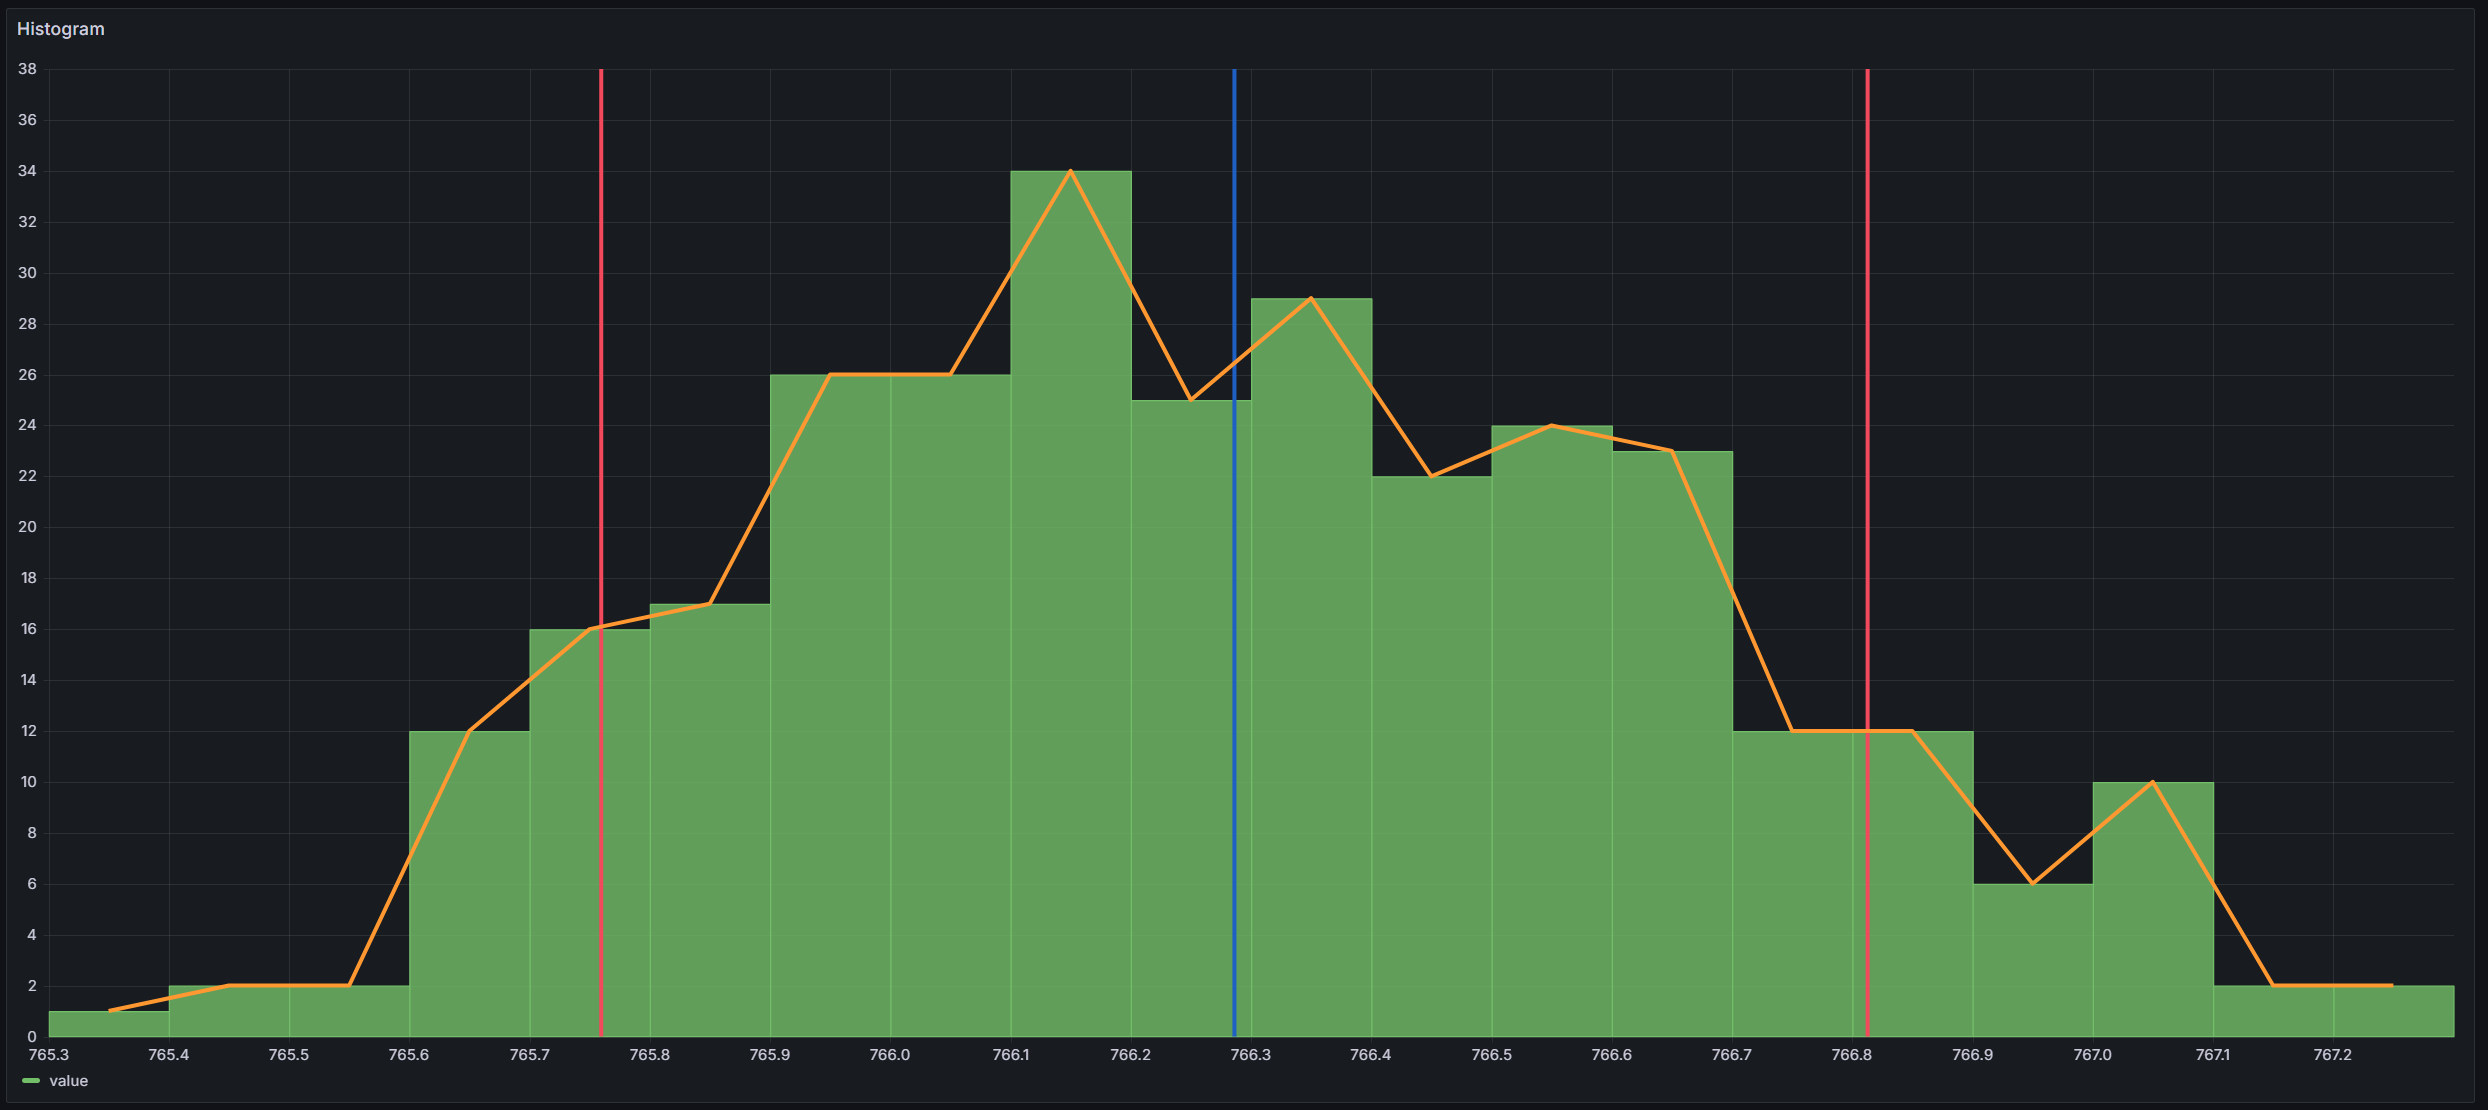
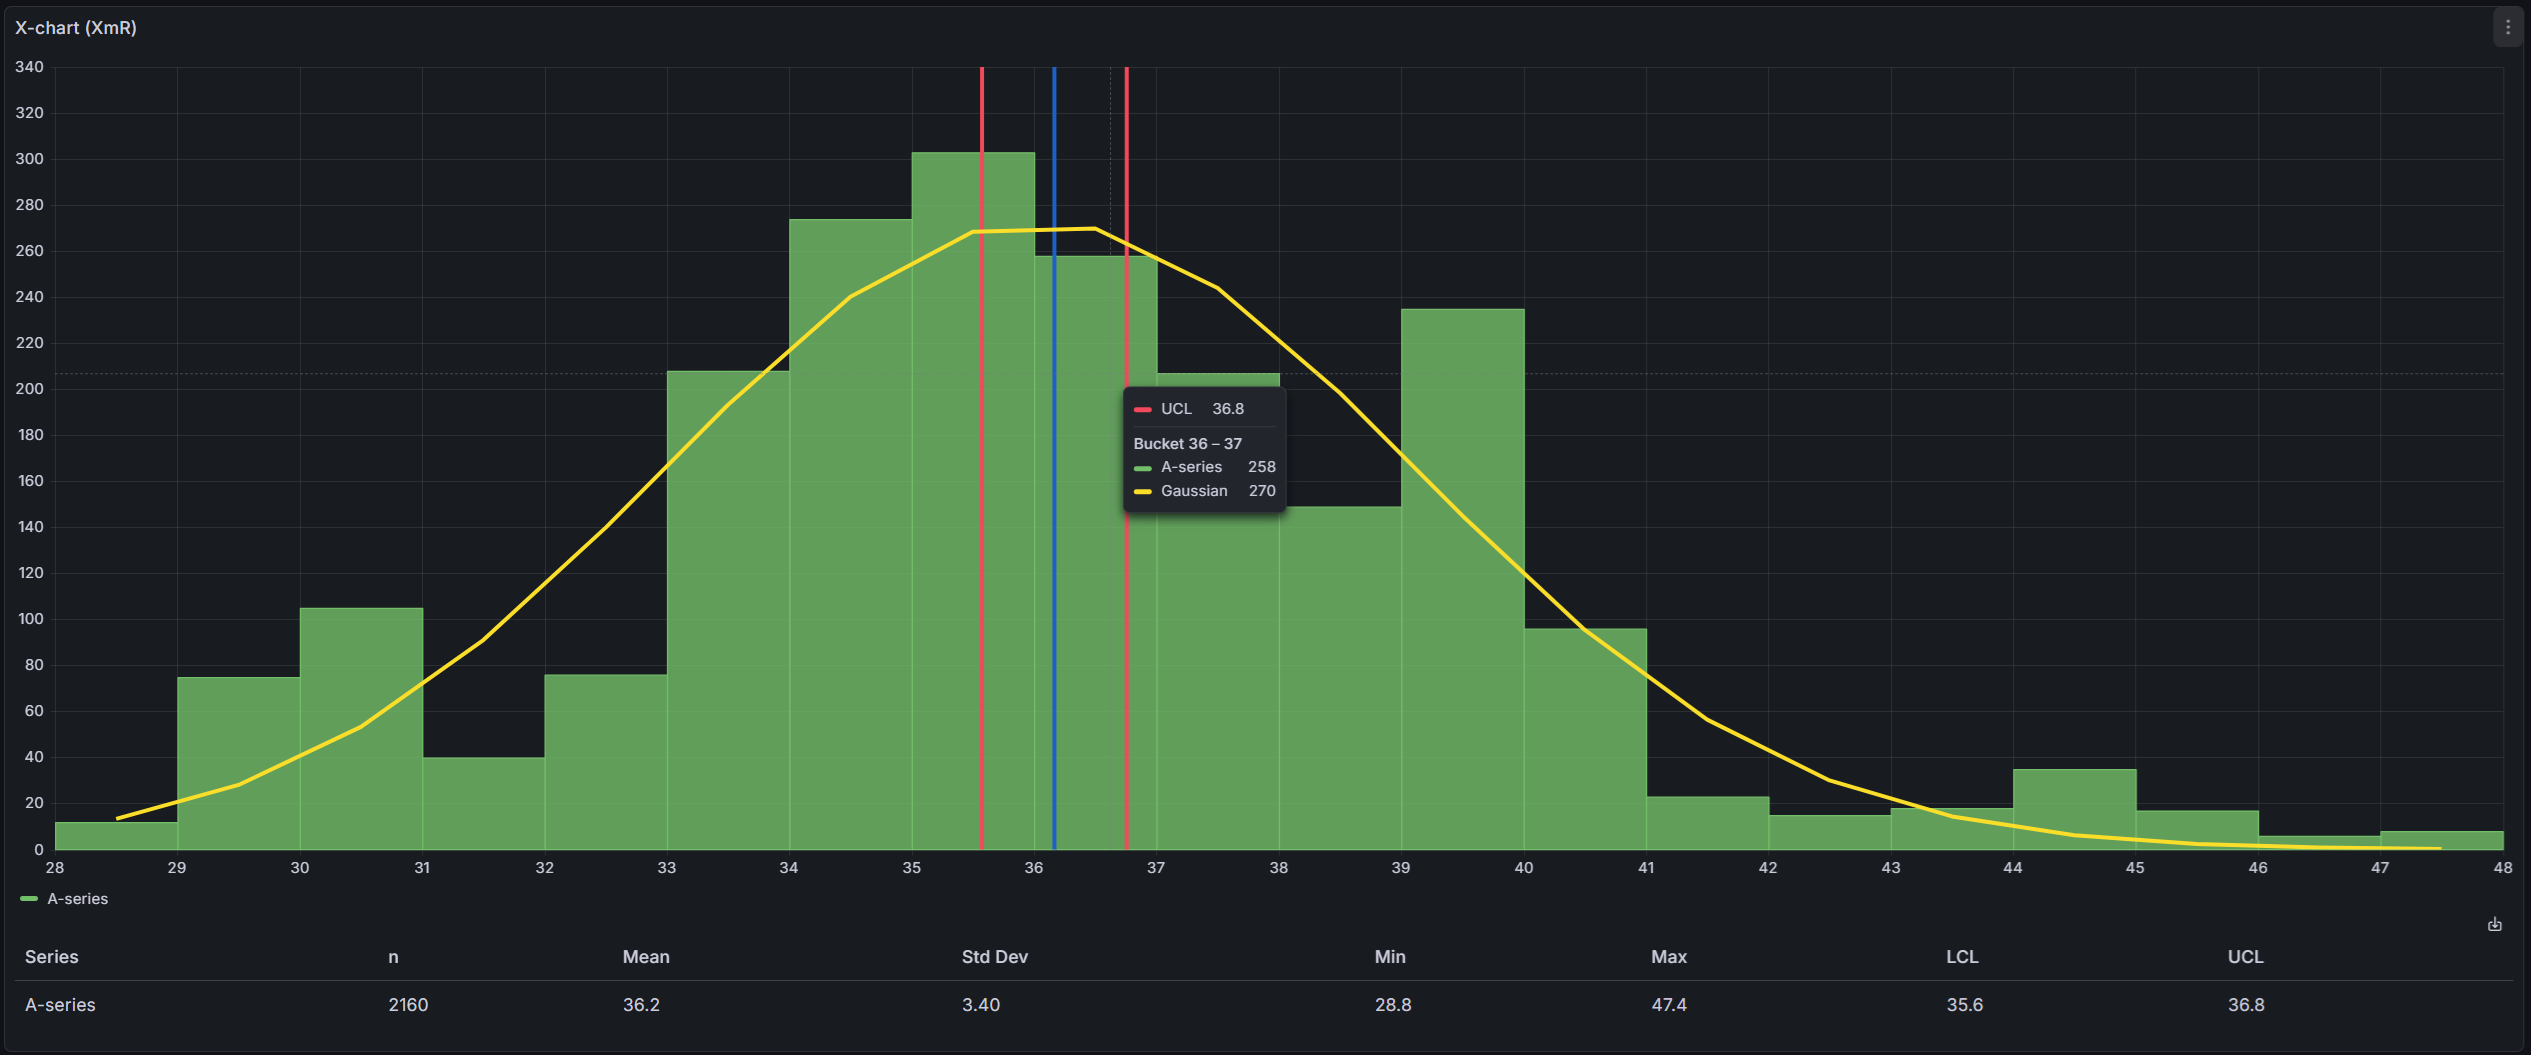
table chart splitter

diff --git a/src/components/SpcHistogramPanel.tsx b/src/components/SpcHistogramPanel.tsx
@@ -1,7 +1,7 @@
-import React, { useCallback, useMemo, useState } from 'react';
+import React, { useCallback, useEffect, useMemo, useState } from 'react';
 import { buildHistogram, FieldType, getHistogramFields } from '@grafana/data';
 import { histogramFieldsToFrame } from '../data/transform';
-import { ContextMenu, MenuItem, useTheme2 } from '@grafana/ui';
+import { ContextMenu, MenuItem, useSplitter, useTheme2 } from '@grafana/ui';
 import { Histogram, getBucketSize } from './Histogram/Histogram';
 import { LimitAnnotations } from './LimitAnnotations/LimitAnnotations';
 import { doSpcCalcs } from 'data/doSpcCalcs';
@@ -172,6 +172,31 @@ export const SpcHistogramPanel = ({ data, options, width, height }: ChartPanelPr
     downloadCsv(csv, generateExportFilename());
   }, [samples, optionsWithVars, allSamplesWithGaussianCalcs, histogram]);
 
+  const showTable = optionsWithVars.showStatisticsTable !== false;
+
+  const [histogramHeight, setHistogramHeight] = useState(Math.round(height * 0.75));
+
+  const { containerProps, primaryProps, secondaryProps, splitterProps } = useSplitter({
+    direction: 'column',
+    initialSize: 0.75,
+  });
+
+  // Track the actual pixel height of the primary pane via ResizeObserver
+  // so the histogram size is correct on initial render (not just after drag).
+  useEffect(() => {
+    const el = primaryProps.ref.current;
+    if (!el) {
+      return;
+    }
+    const ro = new ResizeObserver((entries) => {
+      for (const entry of entries) {
+        setHistogramHeight(Math.round(entry.contentRect.height));
+      }
+    });
+    ro.observe(el);
+    return () => ro.disconnect();
+  }, [primaryProps.ref]);
+
   const [contextMenu, setContextMenu] = useState<{ x: number; y: number } | null>(null);
 
   const handleContextMenu = useCallback(
@@ -190,48 +215,78 @@ export const SpcHistogramPanel = ({ data, options, width, height }: ChartPanelPr
     );
   }
 
-  const showTable = optionsWithVars.showStatisticsTable !== false;
-  const tableHeight = showTable ? 100 : 0;
-  const histogramHeight = height - tableHeight;
+  if (!showTable) {
+    return (
+      <div style={{ display: 'flex', flexDirection: 'column', height }} onContextMenu={handleContextMenu}>
+        {contextMenu && (
+          <ContextMenu
+            x={contextMenu.x}
+            y={contextMenu.y}
+            onClose={() => setContextMenu(null)}
+            renderMenuItems={() => (
+              <MenuItem label="Download CSV" icon="download-alt" onClick={handleExport} />
+            )}
+          />
+        )}
+        <Histogram
+          options={optionsWithVars}
+          theme={theme}
+          legend={optionsWithVars.legend}
+          rawSeries={stampedSamples}
+          structureRev={data.structureRev}
+          width={width}
+          height={height}
+          alignedFrame={histogram}
+          bucketSize={bucketSize}
+          annotationsRange={annotationsRange}
+        >
+          {renderAnnotations}
+        </Histogram>
+      </div>
+    );
+  }
 
   return (
-    <div style={{ display: 'flex', flexDirection: 'column', height }} onContextMenu={handleContextMenu}>
+    <div
+      {...containerProps}
+      style={{ height, width }}
+      onContextMenu={handleContextMenu}
+    >
       {contextMenu && (
         <ContextMenu
           x={contextMenu.x}
           y={contextMenu.y}
           onClose={() => setContextMenu(null)}
           renderMenuItems={() => (
-            <MenuItem
-              label="Download CSV"
-              icon="download-alt"
-              onClick={handleExport}
-            />
+            <MenuItem label="Download CSV" icon="download-alt" onClick={handleExport} />
           )}
         />
       )}
-      <Histogram
-        options={optionsWithVars}
-        theme={theme}
-        legend={optionsWithVars.legend}
-        rawSeries={stampedSamples}
-        structureRev={data.structureRev}
-        width={width}
-        height={histogramHeight}
-        alignedFrame={histogram}
-        bucketSize={bucketSize}
-        annotationsRange={annotationsRange}
-      >
-        {renderAnnotations}
-      </Histogram>
-      {showTable && (
+      <div {...primaryProps} style={{ ...primaryProps.style, overflow: 'hidden', minHeight: 0 }}>
+        <Histogram
+          options={optionsWithVars}
+          theme={theme}
+          legend={optionsWithVars.legend}
+          rawSeries={stampedSamples}
+          structureRev={data.structureRev}
+          width={width}
+          height={histogramHeight}
+          alignedFrame={histogram}
+          bucketSize={bucketSize}
+          annotationsRange={annotationsRange}
+        >
+          {renderAnnotations}
+        </Histogram>
+      </div>
+      <div {...splitterProps} />
+      <div {...secondaryProps} style={{ ...secondaryProps.style, overflow: 'auto', display: 'flex', justifyContent: 'center', minHeight: 0 }}>
         <StatisticsTable
           series={samples}
           options={optionsWithVars}
           theme={theme}
           onExport={handleExport}
         />
-      )}
+      </div>
     </div>
   );
 };

diff --git a/src/components/StatisticsTable/StatisticsTable.tsx b/src/components/StatisticsTable/StatisticsTable.tsx
@@ -1,4 +1,4 @@
-import React, { useMemo } from 'react';
+import React, { useCallback, useMemo } from 'react';
 import { DataFrame, FieldType, getDisplayProcessor, formattedValueToString, GrafanaTheme2 } from '@grafana/data';
 import { IconButton, InteractiveTable } from '@grafana/ui';
 import { CellProps } from 'react-table';
@@ -59,7 +59,10 @@ export const StatisticsTable: React.FC<StatisticsTableProps> = ({ series, option
   const showControlLimits = options.chartType !== SpcChartTyp.none;
   const hasCapabilityData = statistics.some((s) => s.cp != null);
   const selectedColumns = options.statisticsTableColumns;
-  const isColumnVisible = (id: string) => !selectedColumns || selectedColumns.length === 0 || selectedColumns.includes(id);
+  const isColumnVisible = useCallback(
+    (id: string) => !selectedColumns || selectedColumns.length === 0 || selectedColumns.includes(id),
+    [selectedColumns]
+  );
 
   const columns = useMemo(
     () => [
@@ -154,7 +157,7 @@ export const StatisticsTable: React.FC<StatisticsTableProps> = ({ series, option
   }
 
   return (
-    <div>
+    <div style={{ width: '100%' }}>
       {onExport && (
         <div style={{ display: 'flex', justifyContent: 'flex-end', padding: '0 4px' }}>
           <IconButton name="download-alt" tooltip="Export statistics to CSV" onClick={onExport} size="sm" />

diff --git a/src/README.md b/src/README.md
@@ -1,0 +1,55 @@
+# SPC Histogram
+
+Visualize your process data distributions with built-in Statistical Process Control — right inside Grafana.
+
+SPC Histogram turns your time series data into interactive histograms with automatic control limits, bell curves, capability indices, and a detailed statistics table. Whether you're monitoring manufacturing tolerances, tracking measurement stability, or analyzing process performance, this panel gives you the tools to understand your data at a glance.
+
+![SPC Histogram](https://raw.githubusercontent.com/KensoBI/spc-histogram/main/src/img/spc-histogram-release.gif)
+
+## Key Features
+
+### Control Charts (XmR, Xbar-R, Xbar-S)
+
+Select a chart type and the panel automatically calculates control limits (LCL, UCL) and displays them as vertical lines on the histogram. Supports individual measurements (XmR), subgroup averages with range (Xbar-R), and subgroup averages with standard deviation (Xbar-S).
+
+### Bell Curves
+
+Overlay a **Gaussian curve** fitted using the Levenberg-Marquardt algorithm to see how closely your data follows a normal distribution. Or use the **Histogram curve** to trace the actual shape of your distribution.
+
+![Gaussian Curve](https://raw.githubusercontent.com/KensoBI/spc-histogram/main/src/img/gaussian-curve.png)
+
+### Statistics Table with Capability Indices
+
+A built-in statistics table displays descriptive statistics (n, Mean, Std Dev, Min, Max), control limits, and process capability indices (**Cp, Cpk, Pp, Ppk**) — everything you need to assess whether your process is within specification.
+
+![Statistics Table](https://raw.githubusercontent.com/KensoBI/spc-histogram/main/src/img/stat-table.png)
+
+### Custom Control Lines
+
+Add specification limits (LSL/USL), target values, or any reference line — either as fixed values or pulled dynamically from a separate data source query. Fill regions to highlight acceptable or out-of-spec zones.
+
+### Multiple Series
+
+Compare distributions across multiple data series side by side, each with its own color and statistics. Or combine them into a single histogram to see the overall picture.
+
+![Multiple Series](https://raw.githubusercontent.com/KensoBI/spc-histogram/main/src/img/multi-series.png)
+
+### Export to CSV
+
+Export all calculated SPC data — statistics, control lines, and histogram buckets — to a CSV file with one click.
+
+### Interactive Tooltips
+
+Hover over any histogram bar to see bucket ranges and counts, control line values, and fitted Gaussian curve values in a unified tooltip.
+
+## Getting Started
+
+1. Add an **SPC Histogram** panel to your dashboard
+2. Connect a data source with time series data
+3. Choose a **Chart Type** (XmR, Xbar-R, or Xbar-S) to enable automatic control limits
+4. Add **Control Lines** for specification limits (LSL/USL) to see capability indices
+5. Add a **Bell Curve** to visualize the distribution fit
+
+## Documentation
+
+For detailed configuration guides, visit the [full documentation](https://docs.kensobi.com/panels/spc-histogram).
